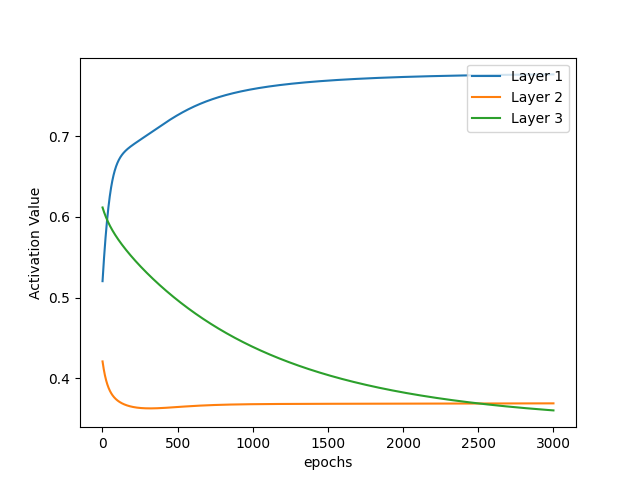
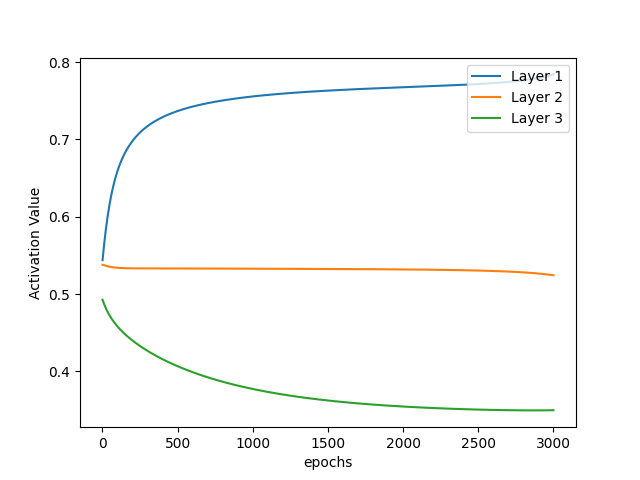
Initialization

diff --git a/main.py b/main.py
@@ -310,7 +310,7 @@ if __name__ == '__main__':
 
     model = NeuralNetwork()
     model.add_layer(5, activation="relu")
-    model.add_layer(3, activation="sigmoid")
+    model.add_layer(3, activation="relu")
     model.add_layer(1, activation="sigmoid")
 
     model.num_layers()
